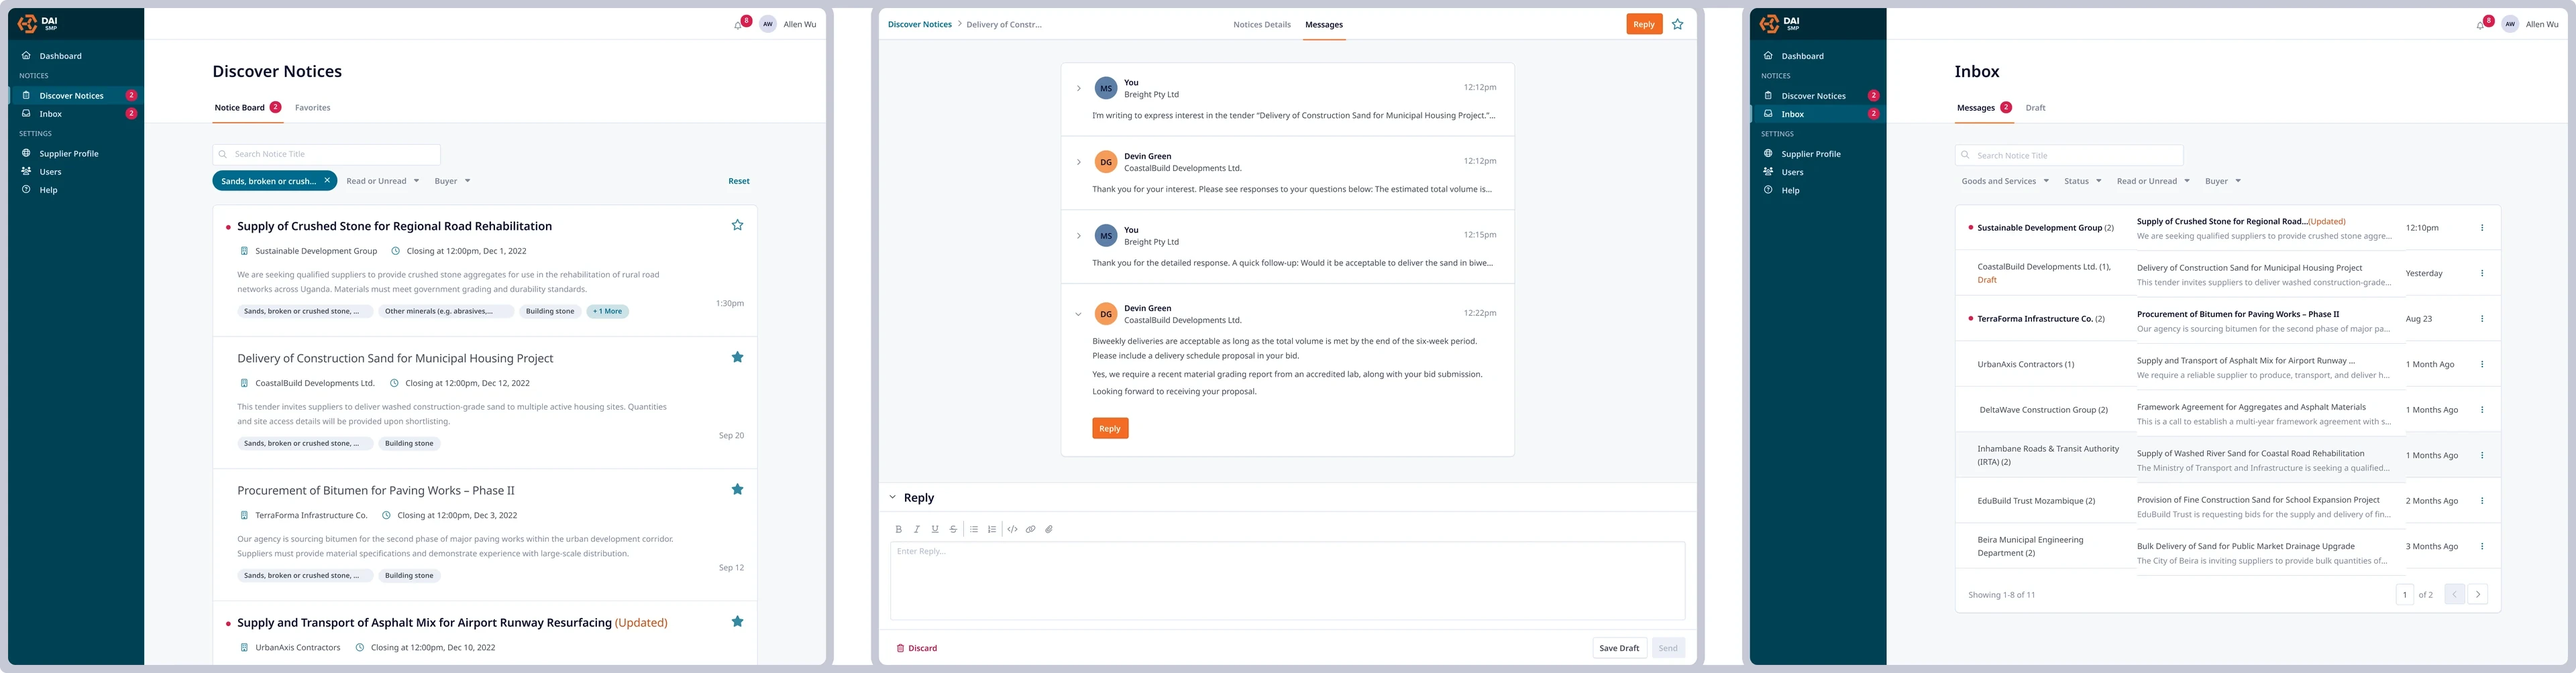
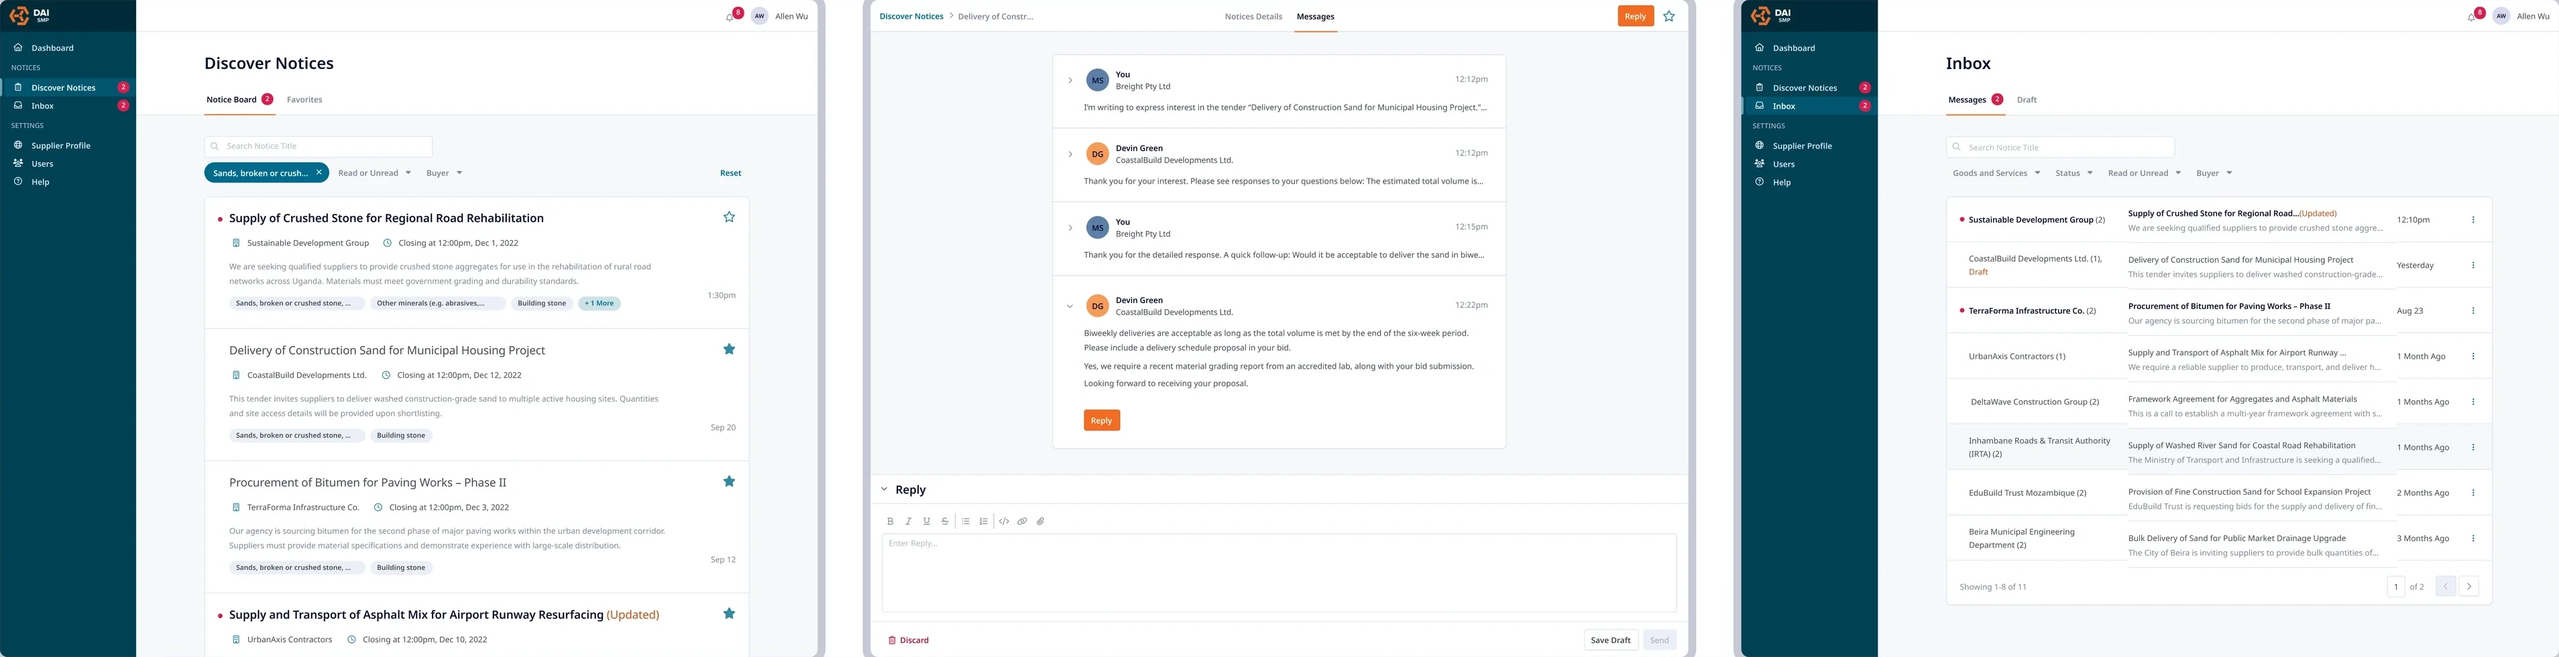
Drop the outer stroke on the supplier-views row

diff --git a/data/case-studies/smp-registration.js b/data/case-studies/smp-registration.js
@@ -240,9 +240,10 @@ export const smpRegistration = {
       type: "wideScroll",
       src: `${IMG}/supplier-views-row.webp`,
       alt: "The three supplier views side by side: discover notices with filters, a threaded response view, and the message inbox.",
-      /* 509, not 497: Figma's export clipped each screen's own 6px top and
-         bottom stroke, so the pipeline redraws them — see the notes. */
-      height: 509,
+      /* The row carries no outer stroke: the redrawn frame was cropped off, so
+         the panel is its own screens on white. 490 = the cropped 980px asset
+         at half scale. */
+      height: 490,
       /* No frame around the row — Figma's outer frame is padding, not a border,
          and the .figure-frame that used to be here was also what stopped it
          scrolling (its `overflow: hidden` beat `overflow-x: auto`). */
